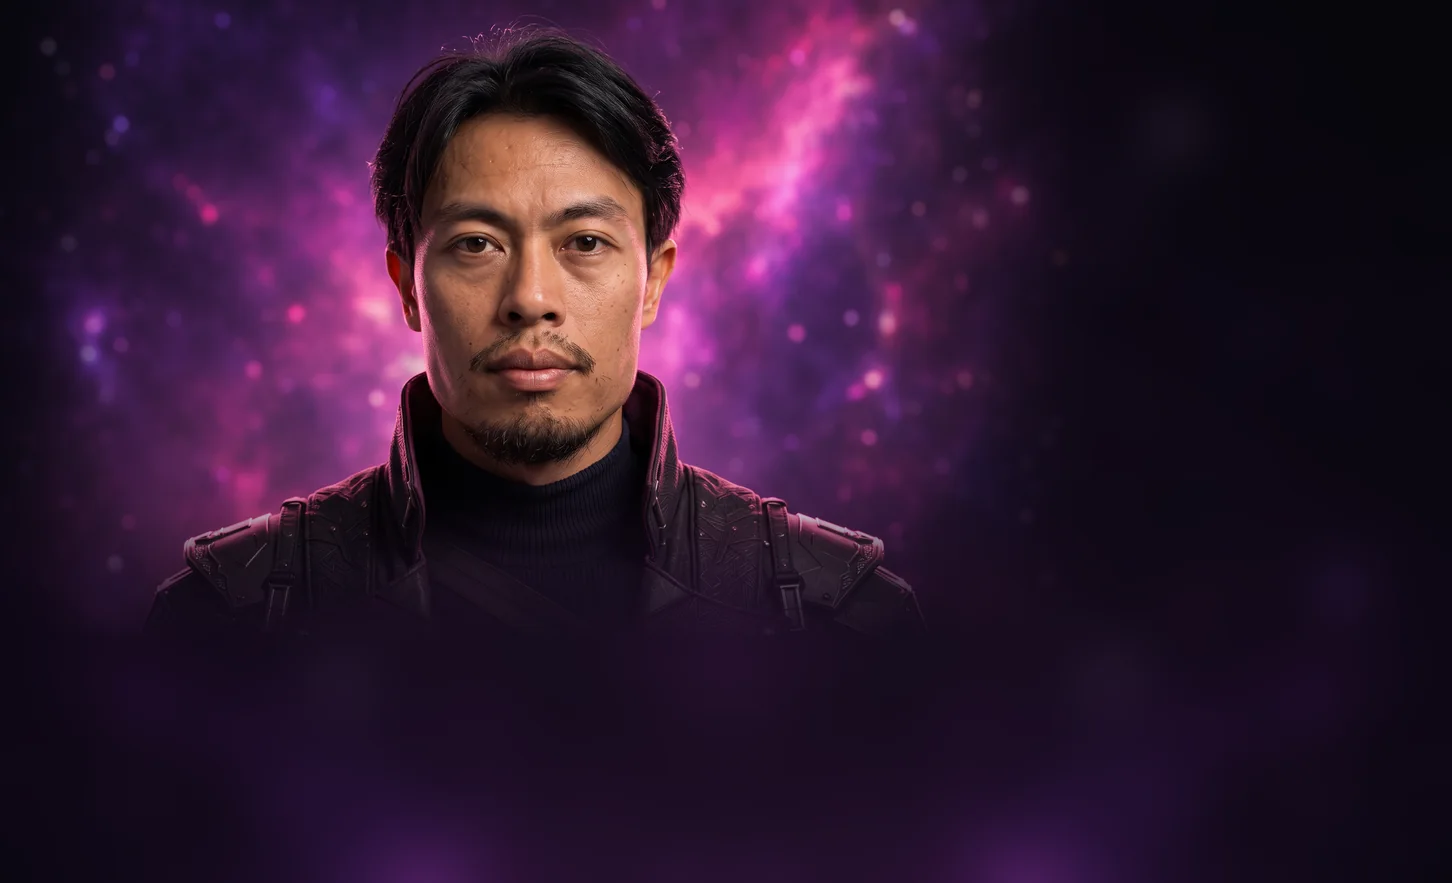
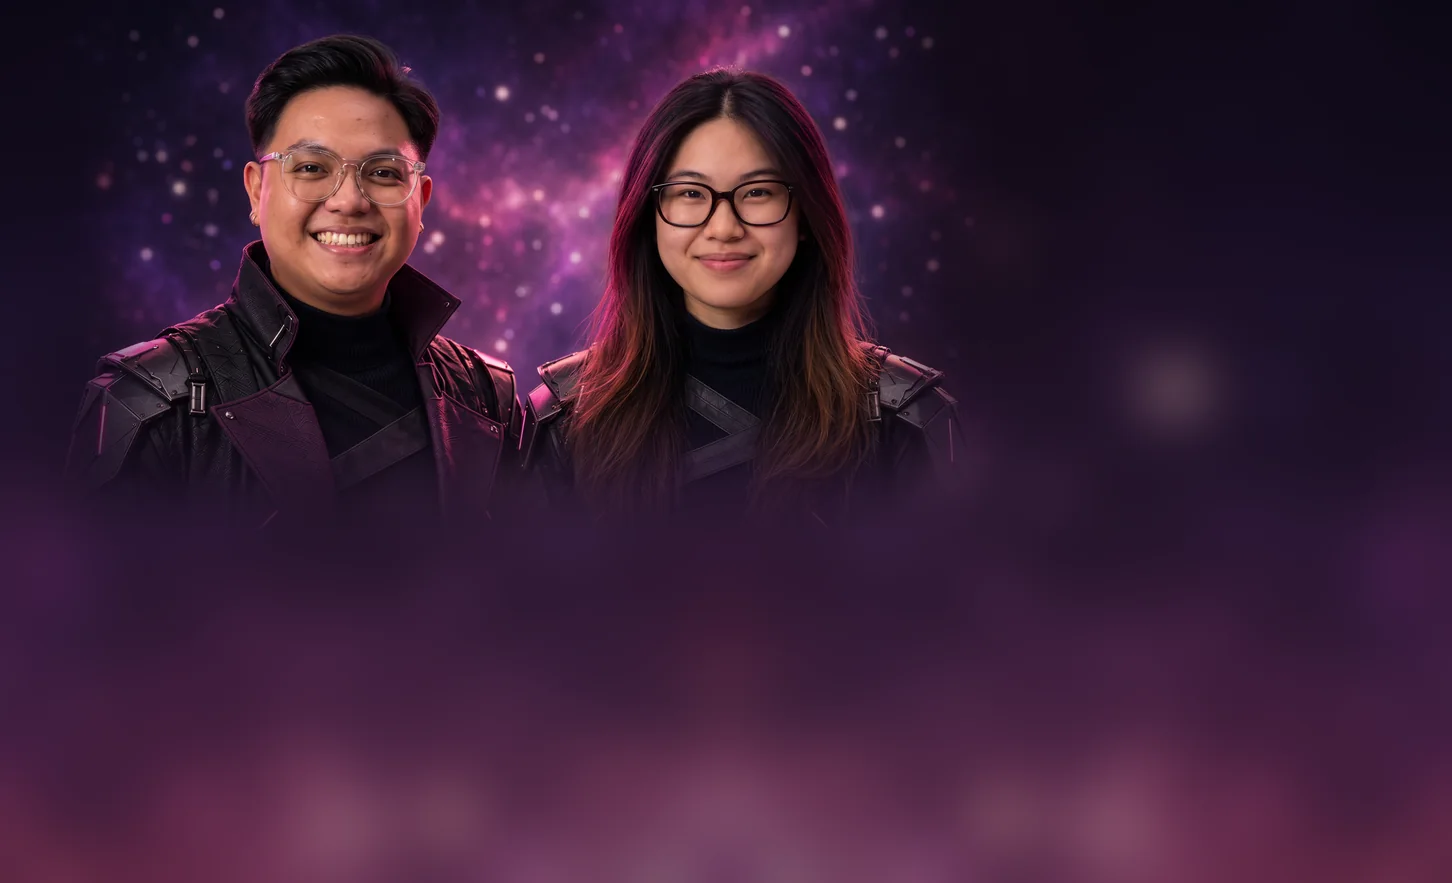
Partner Heroes: new portraits row 2, duo cards 11-12, 15-16, 19-20
Claude-Session: https://claude.ai/code/session_01QpfYAiXFaQHcA12hC36bw4

diff --git a/index.html b/index.html
@@ -1110,7 +1110,7 @@
       body:`<section class="backers"><article class="backer"><img class="backer-photo" src="network-sign-1.webp" alt="Deddy Corbuzier signing with FCU" loading="lazy"><div class="backer-info"><h3>DEDDY CORBUZIER</h3><span class="backer-role">Investor &amp; Strategic Partner</span><div class="backer-brand"><img src="network-logo-1.webp" alt="" loading="lazy"><b>Flux Creative Universe</b></div><p>Deddy Corbuzier, widely known as the “Father of YouTube Indonesia” and a leading figure in the country’s digital media landscape, joined Flux Creative Universe as an investor and strategic partner on May 9, 2023. His involvement strengthens our vision for Indonesia’s next generation of creative businesses.</p><span class="backer-go" aria-hidden="true">→</span></div></article><article class="backer"><img class="backer-photo" src="network-sign-2.webp" alt="Andrew Susanto signing with FCU" loading="lazy"><div class="backer-info"><h3>ANDREW SUSANTO</h3><span class="backer-role">Investor</span><div class="backer-brand"><img src="network-logo-2.webp" alt="" loading="lazy"><b>Bersinema</b></div><p>Andrew Susanto, an investor and prominent business figure associated with HW Group, invested in Bersinema, Flux Creative Universe’s pioneering TikTok vertical drama production house. Built on the growing potential of short-form entertainment, Bersinema consistently generates over 300 million views per month.</p><span class="backer-go" aria-hidden="true">→</span></div></article><article class="backer"><img class="backer-photo" src="network-sign-3.webp" alt="Ivan Tanjaya signing with FCU" loading="lazy"><div class="backer-info"><h3>IVAN TANJAYA</h3><span class="backer-role">Investor</span><div class="backer-brand"><b>HolyFlux</b></div><p>Building on Ivan Tanjaya’s experience as co-founder of HW Group, Flux Creative Universe partnered with him to establish HolyFlux Media on November 13, 2024. The venture brings together 7 media brands, collectively generating hundreds of millions of impressions per month.</p><span class="backer-go" aria-hidden="true">→</span></div></article><article class="backer"><img class="backer-photo" src="network-sign-4.webp" alt="Rudy Salim signing with FCU" loading="lazy"><div class="backer-info"><h3>RUDY SALIM</h3><span class="backer-role">Investor &amp; Co-Founder</span><div class="backer-brand"><img src="network-logo-3.webp" alt="" loading="lazy"><b>Privilege</b></div><p>Known as one of Indonesia’s “Crazy Rich” entrepreneurs, Rudy Salim built his reputation in the luxury automotive industry. He later co-founded Privilege with Flux Creative Universe, driven by the belief that every brand has the privilege to go viral.</p><span class="backer-go" aria-hidden="true">→</span></div></article><article class="backer"><img class="backer-photo" src="network-sign-5.webp" alt="Grace Tahir signing with FCU" loading="lazy"><div class="backer-info"><h3>GRACE TAHIR</h3><span class="backer-role">Investor &amp; Co-Founder</span><div class="backer-brand"><b>Peak Digital Capital</b></div><p>Grace Tahir co-founded Peak Digital Capital with Yohanes Auri on March 2, 2023, as a joint venture between Everest Media and Flux Creative Universe. Through investments in multiple homeless media platforms, Peak is building a digital media network with a combined audience of millions of followers.</p><span class="backer-go" aria-hidden="true">→</span></div></article></section>`
     },
     'PARTNER HEROES':{eye:'04 / Creative Partners',heroes:true,lead:'',body:`<div class="ph-art" role="img" aria-label="Yohanes Auri"></div>
-        <div class="ph-deck"><button class="ph-dnav prev" data-dir="-1" aria-label="Sebelumnya">‹</button><div class="hc-grid"><button class="hc is-on" data-hero="0" style="--d:0"><span class="hc-n">01</span><img src="heroes/p01.webp" alt="" loading="lazy"><span class="hc-name">YOHANES AURI</span><span class="hc-brand">FCU</span></button><button class="hc" data-hero="1" style="--d:1"><span class="hc-n">02</span><img src="heroes/p02.webp?v=2" alt="" loading="lazy"><span class="hc-name">BEN EDGAR</span><span class="hc-brand">DC MEDIA</span></button><button class="hc" data-hero="2" style="--d:2"><span class="hc-n">03</span><img src="heroes/p03.webp?v=2" alt="" loading="lazy"><span class="hc-name" style="white-space:normal;text-align:center;line-height:1.15">ALDHO MULIA TRIJAYA</span><span class="hc-brand">Bersinema</span></button><button class="hc" data-hero="3" style="--d:3"><span class="hc-n">04</span><img src="heroes/p04.webp?v=2" alt="" loading="lazy"><span class="hc-name">NOBITADIT</span><span class="hc-brand">ATTENTION.</span></button><button class="hc hc-duo" data-hero="4" style="--d:4"><span class="hc-n">05–06</span><img src="heroes/p05.webp?v=2" alt="" loading="lazy"><span class="hc-name">NADYA &amp; RUDY SALIM</span><span class="hc-brand">Faith Media · Privilege</span></button><button class="hc hc-gone" data-hero="5" style="--d:5" hidden><span class="hc-n">06</span><img src="heroes/p06.webp" alt="" loading="lazy"><span class="hc-name">RUDY SALIM</span><span class="hc-brand">Privilege</span></button><button class="hc" data-hero="6" style="--d:6"><span class="hc-n">07</span><img src="heroes/p07.webp?v=3" alt="" loading="lazy"><span class="hc-name">PETRA</span><span class="hc-brand">Pacarku</span></button><button class="hc" data-hero="7" style="--d:7"><span class="hc-n">08</span><img src="heroes/p08.webp?v=3" alt="" loading="lazy"><span class="hc-name">DENNY</span><span class="hc-brand">Homeless Media</span></button><button class="hc hc-duo" data-hero="8" style="--d:8"><span class="hc-n">09–10</span><img src="heroes/p09.webp?v=3" alt="" loading="lazy"><span class="hc-name">RICO &amp; ALDI</span><span class="hc-brand">Fluxnesia · KA</span></button><button class="hc hc-gone" data-hero="9" style="--d:9" hidden><span class="hc-n">10</span><img src="heroes/p10.webp?v=2" alt="" loading="lazy"><span class="hc-name">ALDI</span><span class="hc-brand">KA</span></button><button class="hc" data-hero="10" style="--d:0"><span class="hc-n">11</span><img src="heroes/p11.webp?v=2" alt="" loading="lazy"><span class="hc-name">HENDRA</span><span class="hc-brand">Clipper.</span></button><button class="hc" data-hero="11" style="--d:1"><span class="hc-n">12</span><img src="heroes/p12.webp?v=2" alt="" loading="lazy"><span class="hc-name">BAYU</span><span class="hc-brand">Studio Lama</span></button><button class="hc" data-hero="12" style="--d:2"><span class="hc-n">13</span><img src="heroes/p13.webp?v=2" alt="" loading="lazy"><span class="hc-name">SANDY</span><span class="hc-brand">Kreatifku</span></button><button class="hc" data-hero="13" style="--d:3"><span class="hc-n">14</span><img src="heroes/p14.webp?v=2" alt="" loading="lazy"><span class="hc-name">CLARA</span><span class="hc-brand">Eventgaris</span></button><button class="hc" data-hero="14" style="--d:4"><span class="hc-n">15</span><img src="heroes/p15.webp?v=2" alt="" loading="lazy"><span class="hc-name">ARIF</span><span class="hc-brand">AI Motion</span></button><button class="hc" data-hero="15" style="--d:5"><span class="hc-n">16</span><img src="heroes/p16.webp?v=2" alt="" loading="lazy"><span class="hc-name">TIARA</span><span class="hc-brand">Playverse</span></button><button class="hc" data-hero="16" style="--d:6"><span class="hc-n">17</span><img src="heroes/p17.webp?v=2" alt="" loading="lazy"><span class="hc-name">WIRA</span><span class="hc-brand">Soundscape</span></button><button class="hc" data-hero="17" style="--d:7"><span class="hc-n">18</span><img src="heroes/p18.webp" alt="" loading="lazy"><span class="hc-name">LUKAS</span><span class="hc-brand">Visual District</span></button><button class="hc" data-hero="18" style="--d:8"><span class="hc-n">19</span><img src="heroes/p19.webp" alt="" loading="lazy"><span class="hc-name">RATIH</span><span class="hc-brand">Storylab</span></button><button class="hc" data-hero="19" style="--d:9"><span class="hc-n">20</span><img src="heroes/p20.webp" alt="" loading="lazy"><span class="hc-name">DIMAS</span><span class="hc-brand">Growth Hub</span></button></div><button class="ph-dnav next" data-dir="1" aria-label="Berikutnya">›</button></div>
+        <div class="ph-deck"><button class="ph-dnav prev" data-dir="-1" aria-label="Sebelumnya">‹</button><div class="hc-grid"><button class="hc is-on" data-hero="0" style="--d:0"><span class="hc-n">01</span><img src="heroes/p01.webp" alt="" loading="lazy"><span class="hc-name">YOHANES AURI</span><span class="hc-brand">FCU</span></button><button class="hc" data-hero="1" style="--d:1"><span class="hc-n">02</span><img src="heroes/p02.webp?v=2" alt="" loading="lazy"><span class="hc-name">BEN EDGAR</span><span class="hc-brand">DC MEDIA</span></button><button class="hc" data-hero="2" style="--d:2"><span class="hc-n">03</span><img src="heroes/p03.webp?v=2" alt="" loading="lazy"><span class="hc-name" style="white-space:normal;text-align:center;line-height:1.15">ALDHO MULIA TRIJAYA</span><span class="hc-brand">Bersinema</span></button><button class="hc" data-hero="3" style="--d:3"><span class="hc-n">04</span><img src="heroes/p04.webp?v=2" alt="" loading="lazy"><span class="hc-name">NOBITADIT</span><span class="hc-brand">ATTENTION.</span></button><button class="hc hc-duo" data-hero="4" style="--d:4"><span class="hc-n">05–06</span><img src="heroes/p05.webp?v=2" alt="" loading="lazy"><span class="hc-name">NADYA &amp; RUDY SALIM</span><span class="hc-brand">Faith Media · Privilege</span></button><button class="hc hc-gone" data-hero="5" style="--d:5" hidden><span class="hc-n">06</span><img src="heroes/p06.webp" alt="" loading="lazy"><span class="hc-name">RUDY SALIM</span><span class="hc-brand">Privilege</span></button><button class="hc" data-hero="6" style="--d:6"><span class="hc-n">07</span><img src="heroes/p07.webp?v=3" alt="" loading="lazy"><span class="hc-name">PETRA</span><span class="hc-brand">Pacarku</span></button><button class="hc" data-hero="7" style="--d:7"><span class="hc-n">08</span><img src="heroes/p08.webp?v=3" alt="" loading="lazy"><span class="hc-name">DENNY</span><span class="hc-brand">Homeless Media</span></button><button class="hc hc-duo" data-hero="8" style="--d:8"><span class="hc-n">09–10</span><img src="heroes/p09.webp?v=3" alt="" loading="lazy"><span class="hc-name">RICO &amp; ALDI</span><span class="hc-brand">Fluxnesia · KA</span></button><button class="hc hc-gone" data-hero="9" style="--d:9" hidden><span class="hc-n">10</span><img src="heroes/p10.webp?v=2" alt="" loading="lazy"><span class="hc-name">ALDI</span><span class="hc-brand">KA</span></button><button class="hc hc-duo" data-hero="10" style="--d:0"><span class="hc-n">11–12</span><img src="heroes/p11.webp?v=3" alt="" loading="lazy"><span class="hc-name">HENDRA &amp; BAYU</span><span class="hc-brand">Clipper · Studio Lama</span></button><button class="hc hc-gone" data-hero="11" style="--d:1" hidden><span class="hc-n">12</span><img src="heroes/p12.webp?v=2" alt="" loading="lazy"><span class="hc-name">BAYU</span><span class="hc-brand">Studio Lama</span></button><button class="hc" data-hero="12" style="--d:2"><span class="hc-n">13</span><img src="heroes/p13.webp?v=2" alt="" loading="lazy"><span class="hc-name">SANDY</span><span class="hc-brand">Kreatifku</span></button><button class="hc" data-hero="13" style="--d:3"><span class="hc-n">14</span><img src="heroes/p14.webp?v=3" alt="" loading="lazy"><span class="hc-name">CLARA</span><span class="hc-brand">Eventgaris</span></button><button class="hc hc-duo" data-hero="14" style="--d:4"><span class="hc-n">15–16</span><img src="heroes/p15.webp?v=3" alt="" loading="lazy"><span class="hc-name">ARIF &amp; TIARA</span><span class="hc-brand">AI Motion · Playverse</span></button><button class="hc hc-gone" data-hero="15" style="--d:5" hidden><span class="hc-n">16</span><img src="heroes/p16.webp?v=2" alt="" loading="lazy"><span class="hc-name">TIARA</span><span class="hc-brand">Playverse</span></button><button class="hc" data-hero="16" style="--d:6"><span class="hc-n">17</span><img src="heroes/p17.webp?v=3" alt="" loading="lazy"><span class="hc-name">WIRA</span><span class="hc-brand">Soundscape</span></button><button class="hc" data-hero="17" style="--d:7"><span class="hc-n">18</span><img src="heroes/p18.webp?v=3" alt="" loading="lazy"><span class="hc-name">LUKAS</span><span class="hc-brand">Visual District</span></button><button class="hc hc-duo" data-hero="18" style="--d:8"><span class="hc-n">19–20</span><img src="heroes/p19.webp?v=3" alt="" loading="lazy"><span class="hc-name">RATIH &amp; DIMAS</span><span class="hc-brand">Storylab · Growth Hub</span></button><button class="hc hc-gone" data-hero="19" style="--d:9" hidden><span class="hc-n">20</span><img src="heroes/p20.webp" alt="" loading="lazy"><span class="hc-name">DIMAS</span><span class="hc-brand">Growth Hub</span></button></div><button class="ph-dnav next" data-dir="1" aria-label="Berikutnya">›</button></div>
         <div class="ph-quote">
           <div class="ph-tag">DIFFERENT<br>EXPERTISES<br>ONE ECOSYSTEM<br>BIGGER<br>OPPORTUNITIES</div>
           <blockquote id="phQuote">Building next-generation creative businesses for Indonesia and beyond.</blockquote>
@@ -1419,15 +1419,15 @@
 (function(){
   var H=[['YOHANES AURI','CEO & Founder of Idenya Flux','',''],['BEN EDGAR','Partner','DC MEDIA',''],['ALDHO MULIA TRIJAYA','Partner','Bersinema',''],['NOBITADIT','Partner','Attention',''],
     ['NADYA & RUDY SALIM','Partners','Faith Media · Privilege',''],['RUDY SALIM','Partner','Privilege',''],['PETRA','Partner','Pacarku',''],['DENNY','Partner','Homeless Media',''],['RICO & ALDI','Partners','Fluxnesia · KA',''],['ALDI','Partner','KA',''],
-    ['HENDRA','Partner','Clipper',''],['BAYU','Partner','Studio Lama',''],['SANDY','Partner','Kreatifku',''],['CLARA','Partner','Eventgaris',''],['ARIF','Partner','AI Motion',''],
-    ['TIARA','Partner','Playverse',''],['WIRA','Partner','Soundscape',''],['LUKAS','Partner','Visual District',''],['RATIH','Partner','Storylab',''],['DIMAS','Partner','Growth Hub','']];
+    ['HENDRA & BAYU','Partners','Clipper · Studio Lama',''],['BAYU','Partner','Studio Lama',''],['SANDY','Partner','Kreatifku',''],['CLARA','Partner','Eventgaris',''],['ARIF & TIARA','Partners','AI Motion · Playverse',''],
+    ['TIARA','Partner','Playverse',''],['WIRA','Partner','Soundscape',''],['LUKAS','Partner','Visual District',''],['RATIH & DIMAS','Partners','Storylab · Growth Hub',''],['DIMAS','Partner','Growth Hub','']];
   var cur=0, first=null;
   function $(id){return document.getElementById(id)}
   window.fcuHeroShow=function(i){
     if(!$('phName'))return;
     if(!first) first={desc:$('phDesc').textContent,tags:$('phTags').innerHTML,quote:$('phQuote').textContent};
-    var dir=i<cur?-1:1; cur=(i+H.length)%H.length; if(cur===5||cur===9)cur=(cur+dir+H.length)%H.length; var h=H[cur], main=cur===0;
-    $('phCount').textContent=(cur===4?'05–06':cur===8?'09–10':String(cur+1).padStart(2,'0'))+' / '+H.length;
+    var dir=i<cur?-1:1; cur=(i+H.length)%H.length; var SK={5:1,9:1,11:1,15:1,19:1}; while(SK[cur])cur=(cur+dir+H.length)%H.length; var h=H[cur], main=cur===0;
+    $('phCount').textContent=({4:'05–06',8:'09–10',10:'11–12',14:'15–16',18:'19–20'}[cur]||String(cur+1).padStart(2,'0'))+' / '+H.length;
     $('phName').textContent=h[0]; $('phRole').textContent=h[1];
     $('phBrand').textContent=h[2]; $('phBrandSub').textContent=h[3]; $('phBrandSub').style.display=h[3]?'':'none';
     $('phDesc').textContent=main?first.desc:'Profil lengkap '+h[0].toLowerCase().replace(/\b\w/g,function(c){return c.toUpperCase()})+' dan '+h[2]+' segera hadir.';
@@ -1435,7 +1435,7 @@
     $('phExtra').style.display=main?'':'none';
     $('phQuote').textContent=main?first.quote:'Different expertises, one ecosystem.';
     document.querySelectorAll('.hc').forEach(function(x){x.classList.toggle('is-on',Number(x.dataset.hero)===cur)});
-    var art=document.querySelector('.ph-art'); if(art){art.style.backgroundImage=((cur>=1&&cur<=4)||(cur>=6&&cur<=16))?"linear-gradient(90deg,rgba(8,4,18,.6) 0,rgba(8,4,18,0) 32%,rgba(8,4,18,0) 58%,rgba(8,4,18,.55) 100%),linear-gradient(180deg,rgba(8,4,18,0) 55%,rgba(8,4,18,.7) 100%),url('heroes/big/p"+String(cur+1).padStart(2,'0')+".webp?v=3')":'';art.setAttribute('aria-label',h[0]);}
+    var art=document.querySelector('.ph-art'); if(art){art.style.backgroundImage=(cur>=1)?"linear-gradient(90deg,rgba(8,4,18,.6) 0,rgba(8,4,18,0) 32%,rgba(8,4,18,0) 58%,rgba(8,4,18,.55) 100%),linear-gradient(180deg,rgba(8,4,18,0) 55%,rgba(8,4,18,.7) 100%),url('heroes/big/p"+String(cur+1).padStart(2,'0')+".webp?v=3')":'';art.setAttribute('aria-label',h[0]);}
     $('phSignName').textContent=h[0]; $('phSignRole').textContent=(h[1]||h[2])+(main?'':' · '+h[2]);
   };
   document.addEventListener('click',function(e){
